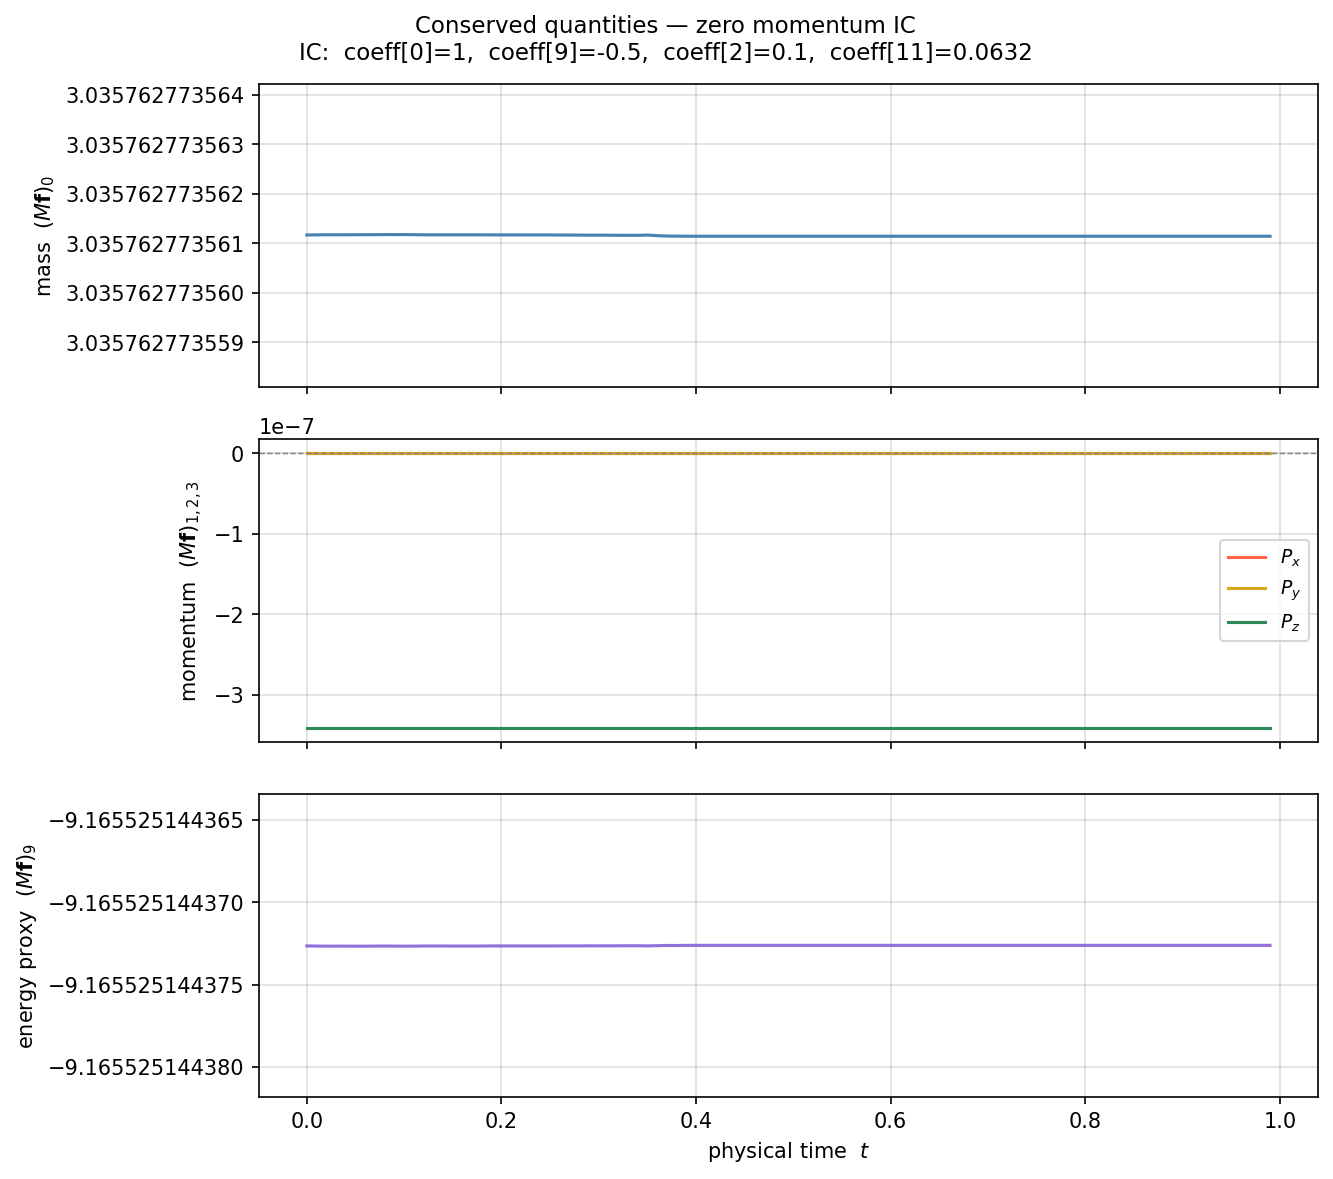
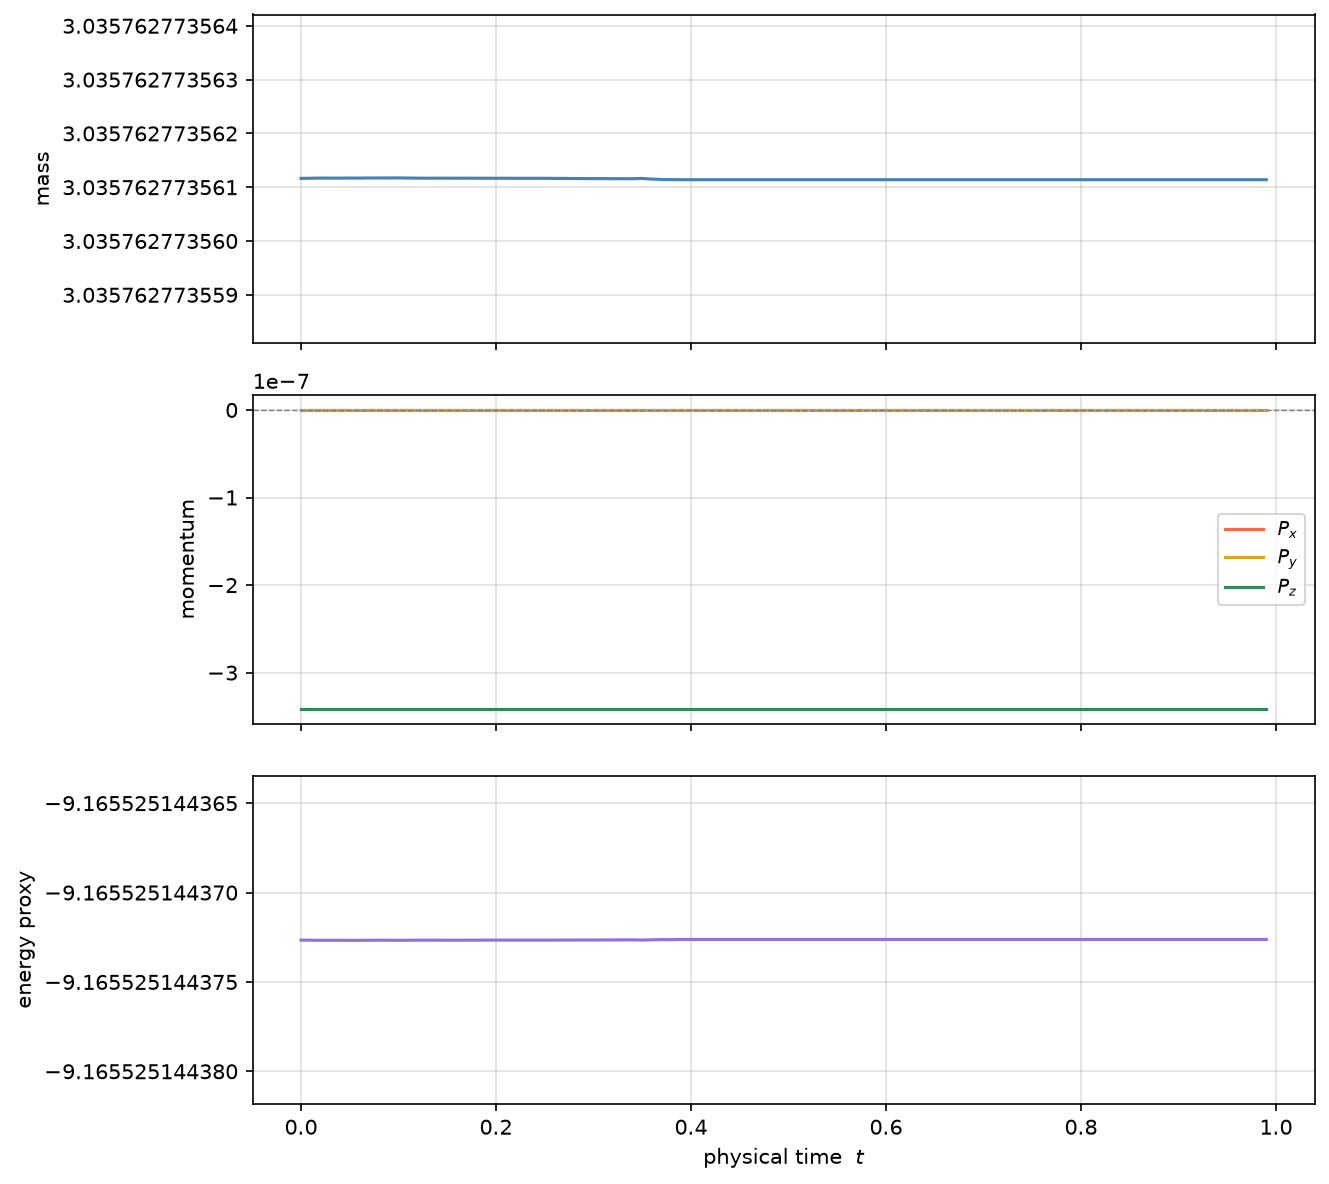
zero-momentum figures; remove plot2d suptitle; set experiment flags

diff --git a/plot/plot.py b/plot/plot.py
@@ -11,7 +11,7 @@ from naming import load_with_meta
 # ── flags ─────────────────────────────────────────────────────────────────────
 # experiment: 'symmetric' | 'asymmetric' | 'zero_momentum'
 # Set this to match ic_mode in time_evol/time_ev.py before running.
-experiment = 'symmetric'
+experiment = 'zero_momentum'
 
 _IC_LABELS = {
     'symmetric':     r'$\alpha_{0,0,0}=1$, $\alpha_{1,0,0}=-1/2$',

diff --git a/plot/plot_conservation.py b/plot/plot_conservation.py
@@ -8,7 +8,7 @@ import os
 # ── flags ─────────────────────────────────────────────────────────────────────
 # experiment: 'symmetric' | 'asymmetric' | 'zero_momentum'
 # Must match the CSV produced by time_evol/conservation_check.py.
-experiment = 'asymmetric'
+experiment = 'zero_momentum'
 
 _IC_LABELS = {
     'symmetric':     r'$\alpha_{0,0,0}=1$, $\alpha_{1,0,0}=-1/2$',

diff --git a/time_evol/time_ev.py b/time_evol/time_ev.py
@@ -59,7 +59,7 @@ assert mass_meta['n'] == n, f"mass matrix n={mass_meta['n']} != operator n={n}"
 #   lemou         -- Villani/Lemou exact benchmark (Maxwellian molecules, isotropic);
 #                    f0 = M(v)*(1 + r^4/120 - r^2/12 + 1/8), exact analytical solution
 #                    h(t,v) = M(v)*(1 + e^{-8t}*(r^4/120 - r^2/12 + 1/8))
-ic_mode = 'symmetric'
+ic_mode = 'zero_momentum'
 
 # ratio -C0/C1 that zeroes the discrete z-momentum
 _ZM_RATIO = 0.632456

diff --git a/plot/plot2d.py b/plot/plot2d.py
@@ -113,10 +113,6 @@ for ax in axes_flat[len(steps):]:
     ax.set_visible(False)
 
 fig.colorbar(im, ax=axes_flat[len(steps) - 1], shrink=0.8, label=r'$f$')
-title = f'Non-relativistic relaxation — x-z plane  ($\\Delta t = {tau}$)'
-if ic_label:
-    title += f'\nIC:  {ic_label}'
-fig.suptitle(title, fontsize=11)
 plt.tight_layout()
 
 fig_name = _FIG_NAMES[experiment]
